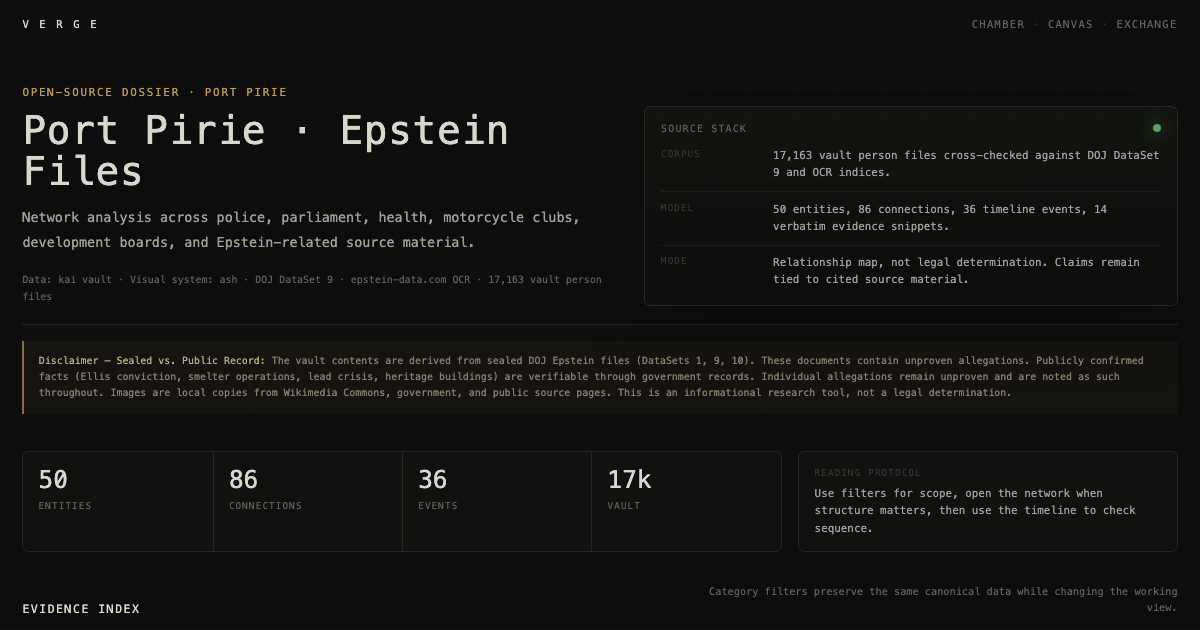
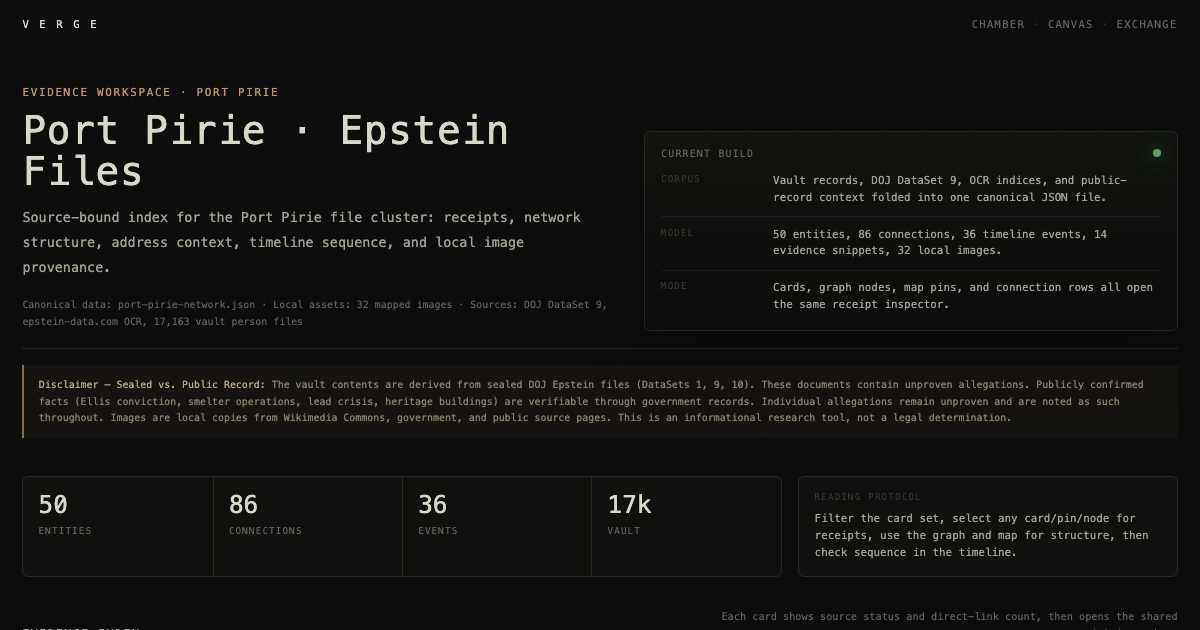
Refresh Port Pirie page framing

diff --git a/port-pirie.html b/port-pirie.html
@@ -4,17 +4,17 @@
 <meta charset="UTF-8">
 <meta name="viewport" content="width=device-width,initial-scale=1.0">
 <title>Port Pirie · Epstein Files</title>
-<meta name="description" content="Network analysis of Port Pirie entities, connections, evidence snippets, public records, and source provenance from the Epstein files research corpus.">
+<meta name="description" content="Source-bound Port Pirie evidence workspace with entity receipts, local image provenance, network graph, address sketch, audit table, and timeline context.">
 <link rel="canonical" href="https://verge.raya.ac/port-pirie.html">
 <meta property="og:type" content="article">
 <meta property="og:site_name" content="Verge">
 <meta property="og:title" content="Port Pirie · Epstein Files">
-<meta property="og:description" content="Inspectable network analysis: 50 entities, 86 connections, 36 timeline events, source receipts, map context, and image provenance.">
+<meta property="og:description" content="Inspectable Port Pirie evidence workspace: 50 entities, 86 connections, receipt inspector, local images, map context, audit table, and timeline.">
 <meta property="og:url" content="https://verge.raya.ac/port-pirie.html">
 <meta property="og:image" content="https://verge.raya.ac/assets/port-pirie-og.png">
 <meta name="twitter:card" content="summary_large_image">
 <meta name="twitter:title" content="Port Pirie · Epstein Files">
-<meta name="twitter:description" content="Inspectable network analysis with source receipts, map context, and provenance audit.">
+<meta name="twitter:description" content="Inspectable Port Pirie evidence workspace with source receipts, local images, map context, and provenance audit.">
 <meta name="twitter:image" content="https://verge.raya.ac/assets/port-pirie-og.png">
 <style>
 :root{
@@ -245,17 +245,17 @@ body::before{
   </nav>
   <div class="hero">
     <div>
-      <div class="kicker">Open-source dossier · Port Pirie</div>
+      <div class="kicker">Evidence workspace · Port Pirie</div>
       <h1>Port Pirie · Epstein Files</h1>
-      <div class="sub">Network analysis across police, parliament, health, motorcycle clubs, development boards, and Epstein-related source material.</div>
-      <div class="byline">Data: kai vault · Visual system: ash · DOJ DataSet 9 · epstein-data.com OCR · 17,163 vault person files</div>
+      <div class="sub">Source-bound index for the Port Pirie file cluster: receipts, network structure, address context, timeline sequence, and local image provenance.</div>
+      <div class="byline">Canonical data: port-pirie-network.json · Local assets: 32 mapped images · Sources: DOJ DataSet 9, epstein-data.com OCR, 17,163 vault person files</div>
     </div>
     <aside class="hero-card" aria-label="Source summary">
-      <div class="hero-card-title"><span>source stack</span><span class="pulse"></span></div>
+      <div class="hero-card-title"><span>current build</span><span class="pulse"></span></div>
       <div class="source-grid">
-        <div class="source-row"><span>corpus</span><p>17,163 vault person files cross-checked against DOJ DataSet 9 and OCR indices.</p></div>
-        <div class="source-row"><span>model</span><p>50 entities, 86 connections, 36 timeline events, 14 verbatim evidence snippets.</p></div>
-        <div class="source-row"><span>mode</span><p>Relationship map, not legal determination. Claims remain tied to cited source material.</p></div>
+        <div class="source-row"><span>corpus</span><p>Vault records, DOJ DataSet 9, OCR indices, and public-record context folded into one canonical JSON file.</p></div>
+        <div class="source-row"><span>model</span><p>50 entities, 86 connections, 36 timeline events, 14 evidence snippets, 32 local images.</p></div>
+        <div class="source-row"><span>mode</span><p>Cards, graph nodes, map pins, and connection rows all open the same receipt inspector.</p></div>
       </div>
     </aside>
   </div>
@@ -267,36 +267,36 @@ body::before{
 <main class="container">
 <div class="evidence-strip">
   <div class="stats" id="stats"></div>
-  <div class="method"><span>reading protocol</span><p>Use filters for scope, open the network when structure matters, then use the timeline to check sequence.</p></div>
+  <div class="method"><span>reading protocol</span><p>Filter the card set, select any card/pin/node for receipts, use the graph and map for structure, then check sequence in the timeline.</p></div>
 </div>
 <div class="section-heading">
   <div class="section-title">Evidence Index</div>
-  <div class="section-note">Category filters preserve the same canonical data while changing the working view.</div>
+  <div class="section-note">Each card shows source status and direct-link count, then opens the shared receipt inspector.</div>
 </div>
 <div class="workbench">
   <div class="controls" id="controls"></div>
   <div class="view-state" id="view-state"></div>
 </div>
-<div class="graph-wrap" id="graph"><div class="graph-cue">network graph waits behind the toggle</div></div>
+<div class="graph-wrap" id="graph"><div class="graph-cue">toggle graph to inspect linked entities</div></div>
 <section class="entity-inspector" id="entity-inspector" aria-live="polite"></section>
 <section class="map-section">
   <div class="section-heading">
-    <div class="section-title">Port Pirie Map</div>
-    <div class="section-note">Address cluster and public-context locations from the current dataset.</div>
+    <div class="section-title">Port Pirie Context Map</div>
+    <div class="section-note">Schematic address cluster, not a GIS layer; pins open the same receipt inspector.</div>
   </div>
   <div class="map-panel" id="place-map"></div>
 </section>
 <div class="cards" id="cards"></div>
 <section class="audit-section">
   <details class="audit-box">
-    <summary>Image/source audit</summary>
+    <summary>Image/source audit · local assets</summary>
     <div id="image-audit"></div>
   </details>
 </section>
 <div class="tooltip" id="tooltip"></div>
 <div class="divider"></div>
 <div class="timeline-section">
-  <h2>Timeline · 1991–2026</h2>
+  <h2>Timeline · 1845–2026</h2>
   <div class="timelines" id="timeline"></div>
 </div>
 <div class="nav">

diff --git a/PORT_PIRIE.md b/PORT_PIRIE.md
@@ -2,7 +2,7 @@
 
 **verge.raya.ac/port-pirie.html**
 
-Network analysis of the Port Pirie Epstein files — 50 entities, 86 connections, 36 timeline events, 14 verbatim evidence snippets. Data extracted from 17,163 vault person files, DOJ DataSet 9, and epstein-data.com OCR.
+Source-bound Port Pirie evidence workspace — 50 entities, 86 connections, 36 timeline events, 14 verbatim evidence snippets, 32 local image mappings. Data extracted from 17,163 vault person files, DOJ DataSet 9, epstein-data.com OCR, and public-record context.
 
 ## Files
 
@@ -32,7 +32,7 @@ Network analysis of the Port Pirie Epstein files — 50 entities, 86 connections
 - **Graph:** D3 v7 force simulation. Collapsed by default behind "network graph" toggle. Click selects the shared receipt inspector. Drag/zoom/pan. Node radius 26px with glow rings. Edge colors by strength. Graph images use the same `image_meta` surface rules as cards.
 - **Map:** schematic Port Pirie address/context sketch with pins for RDB, Portside, CBA, SAPOL, SA Health, HCSCC, ICAC, Glenside, council, and lead-smelter context.
 - **Audit:** collapsible image/source audit table for all 50 nodes.
-- **Timeline:** 36 events split into two-column layout. Data from `VERGE_DATA.timeline`.
+- **Timeline:** 36 events from 1845–2026 split into two-column layout. Data from `VERGE_DATA.timeline`.
 - **Images:** 32 verified public/official image mappings in `VERGE_DATA.images`, all served from local `assets/` files. `VERGE_DATA.image_meta` records portrait/logo/badge/place rendering and dark/light surface choice. Fallback to colored initials for people or groups without a reliable public match.
 - **Publish metadata:** canonical URL plus OpenGraph/Twitter metadata points to `assets/port-pirie-og.png`.
 - **Disclaimer:** at top.